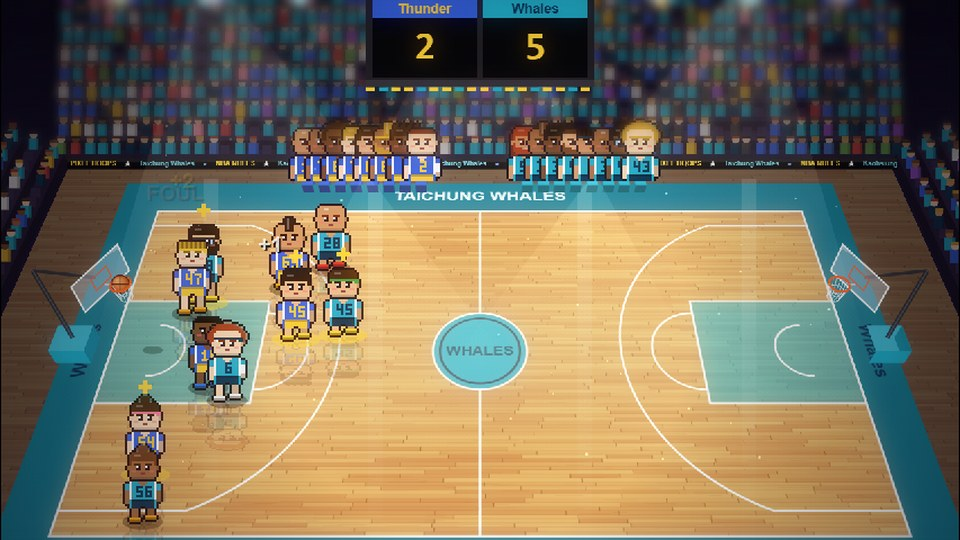
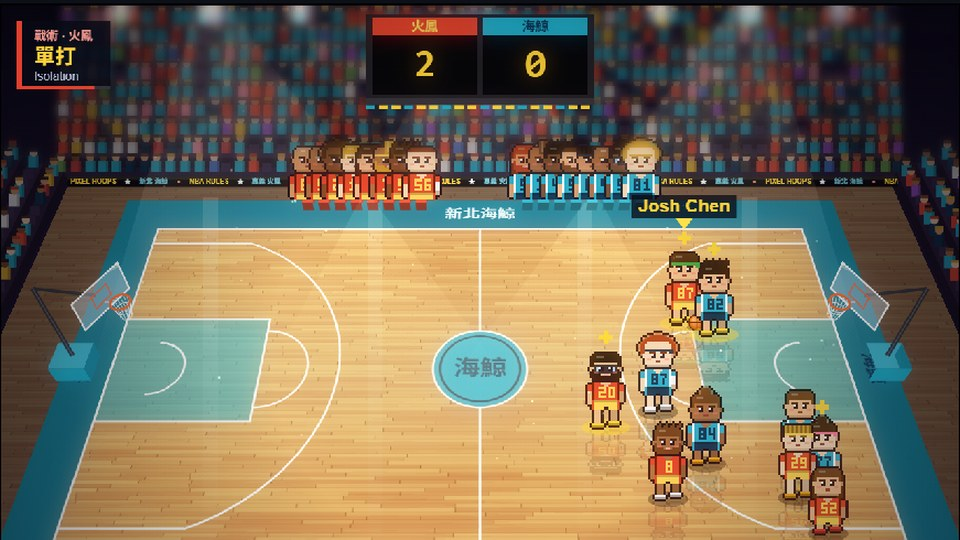
Pixel Hoops card: thumbnail with the playbook

diff --git a/games.js b/games.js
@@ -88,7 +88,7 @@ window.GAMES = [
   {
     id: 'hoops',
     url: '/pixel-hoops/',
-    thumb: 'thumbs/hoops.jpg?v=3',
+    thumb: 'thumbs/hoops.jpg?v=4',
     color: '#e8742a',
     genres: ['sports', 'strategy'],
     devices: ['keyboard', 'touch'],

diff --git a/index.html b/index.html
@@ -77,7 +77,7 @@
     </form>
   </div>
 
-  <script src="games.js?v=6"></script>
+  <script src="games.js?v=7"></script>
   <script src="app.js?v=5"></script>
 </body>
 </html>
